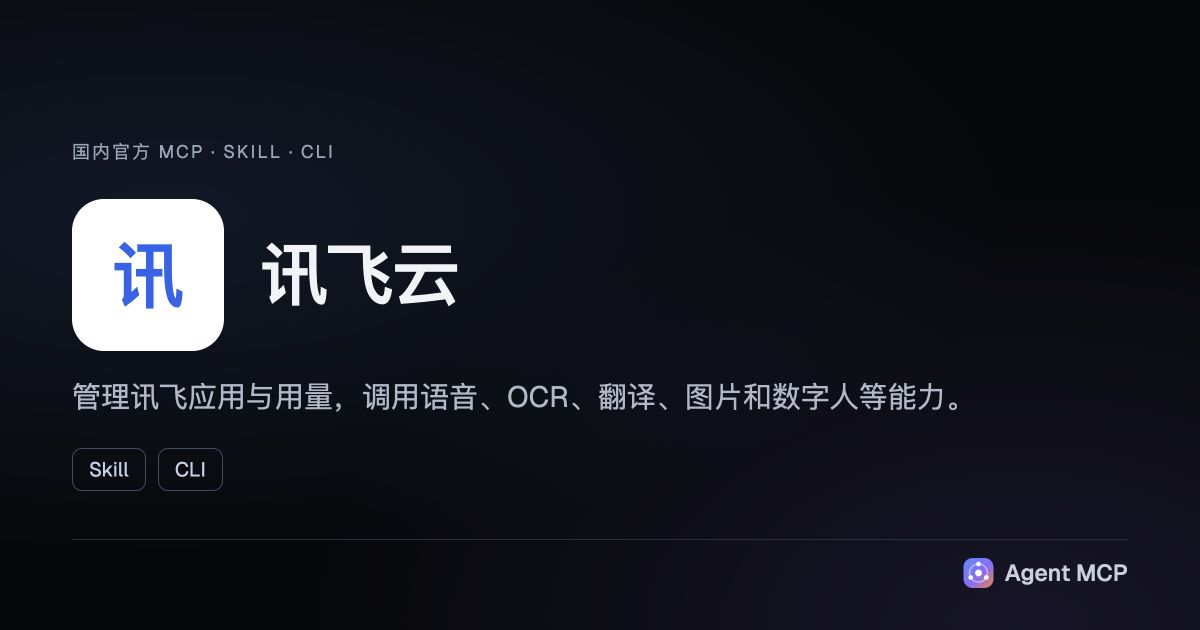
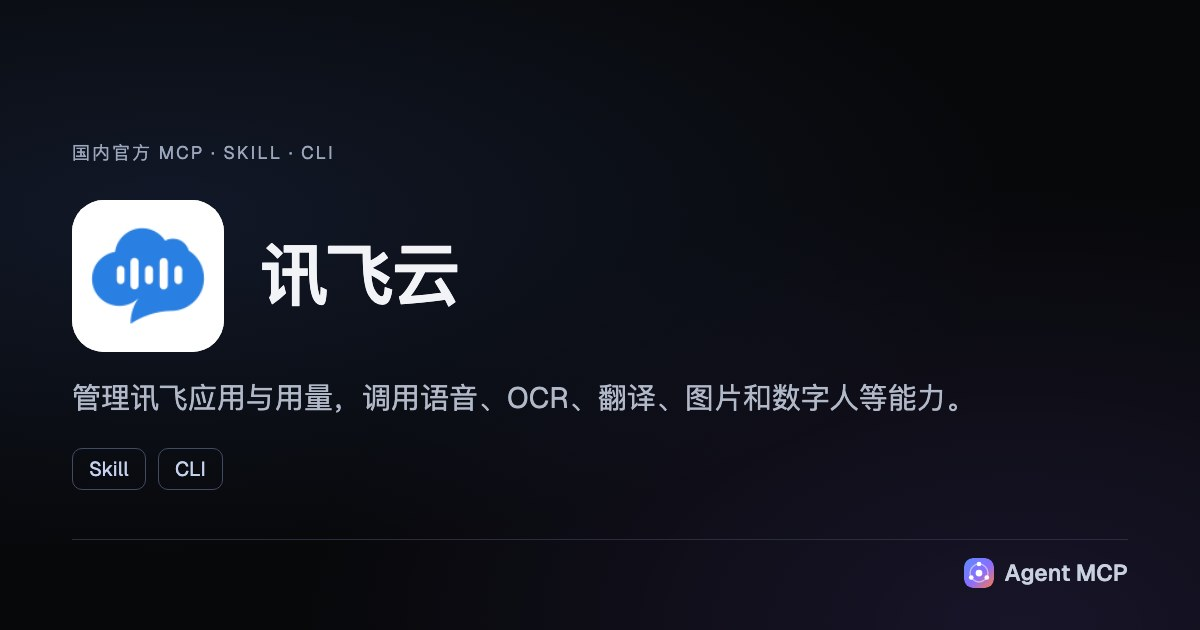
补讯飞图标与安装统计并避让相邻轨道图标 (#63)

diff --git a/web/app.js b/web/app.js
@@ -271,7 +271,7 @@ function buildOrbit() {
   const showLabel = (it, auto) => {
     clearTimeout(labelTimer);
     label.innerHTML = `<b>${esc(it.s.name)}</b><span> · ${esc(verb(it.s))}</span>${auto ? '<i>连接示意</i>' : ''}`;
-    const position = orbitLabelPosition({ x: it.x, y: it.y, size, width: W, labelWidth: label.offsetWidth, labelHeight: label.offsetHeight });
+    const position = orbitLabelPosition({ x: it.x, y: it.y, size, width: W, labelWidth: label.offsetWidth, labelHeight: label.offsetHeight, nodes: items.filter(node => node !== it).map(node => ({ x: node.x, y: node.y, size })) });
     label.style.setProperty('--label-x', `${position.x}px`);
     label.style.setProperty('--label-y', `${position.y}px`);
     label.classList.add('show');

diff --git a/README.en.md b/README.en.md
@@ -13,7 +13,7 @@
   <a href="https://x.com/guanmo_ai">Follow @guanmo_ai</a>
 </p>
 
-<p align="center"><sub>104 services · 7 categories · 104 verified · Updated 2026-11-05</sub></p>
+<p align="center"><sub>104 services · 7 categories · 87 with install config · Updated 2026-11-05</sub></p>
 
 > **Independent community index, for reference only.** Inclusion is not endorsement; verified does not mean tested or guaranteed safe. Check official information before use. [Usage and disclaimer](#disclaimer)
 

diff --git a/README.md b/README.md
@@ -13,7 +13,7 @@
   <a href="https://x.com/guanmo_ai">关注 @guanmo_ai</a>
 </p>
 
-<p align="center"><sub>104 个服务 · 7 个分类 · 104 个已核验 · 更新于 2026-11-05</sub></p>
+<p align="center"><sub>104 个服务 · 7 个分类 · 附安装配置 87 · 更新于 2026-11-05</sub></p>
 
 > **独立社区索引，仅供参考。** 收录不构成背书，“已核验”不等于已实测或安全保证。使用前请自行核实官方信息。[使用说明与免责声明](#disclaimer)
 
